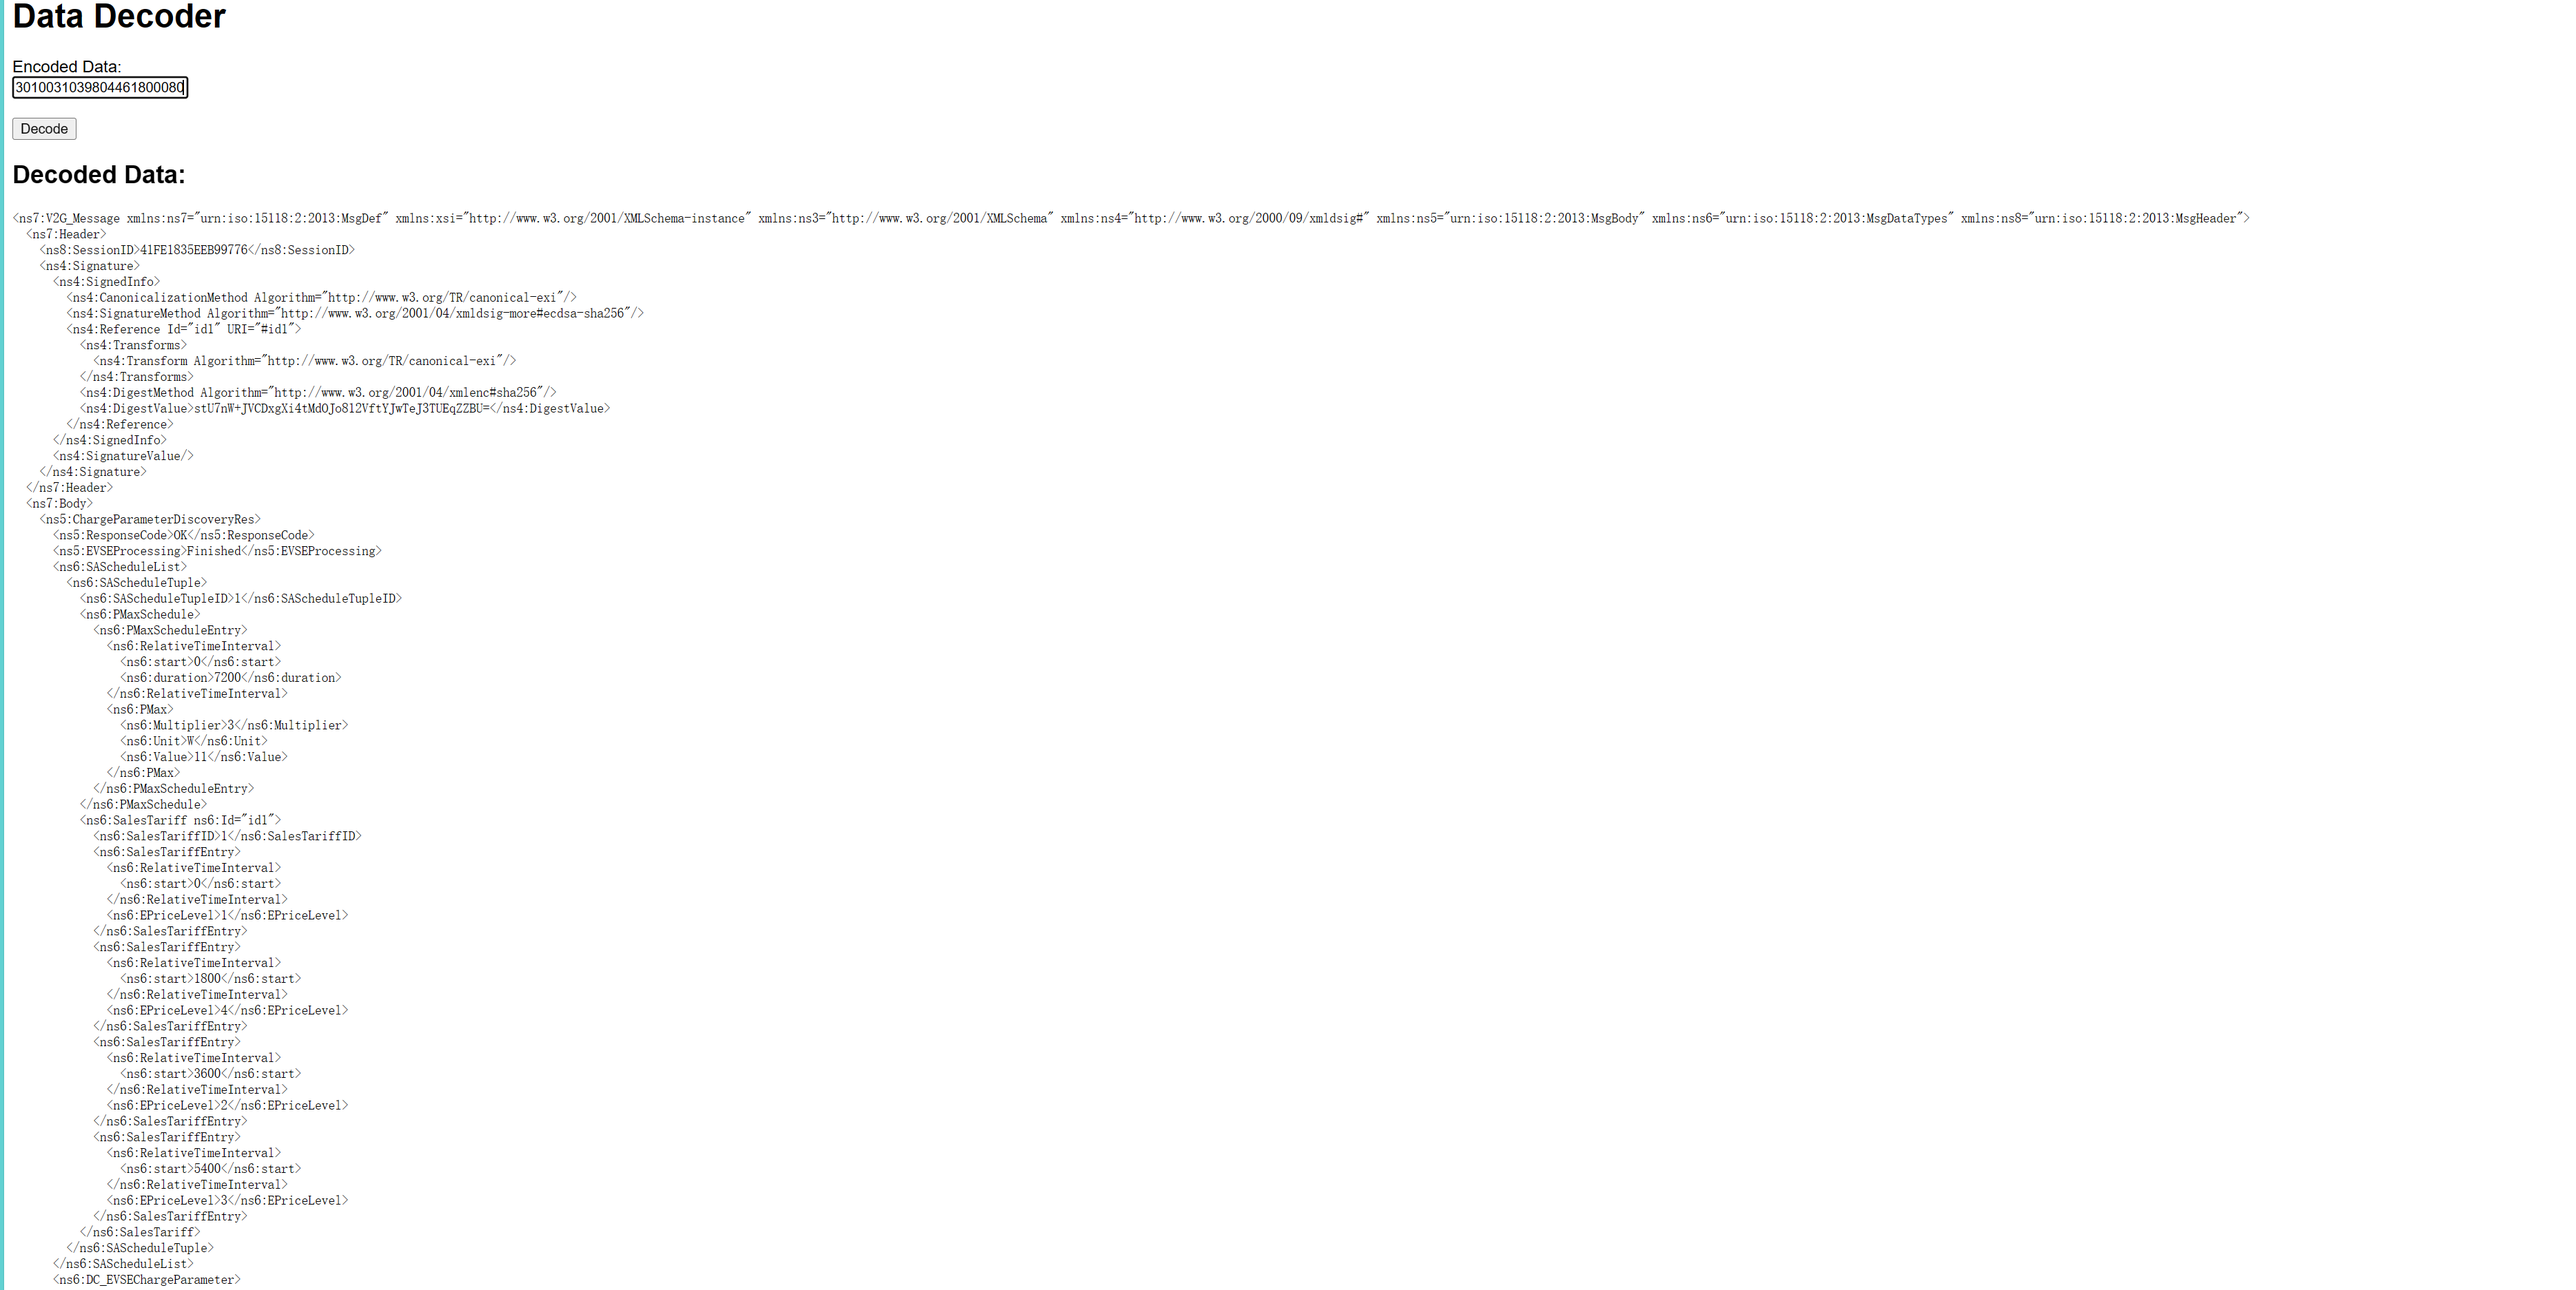
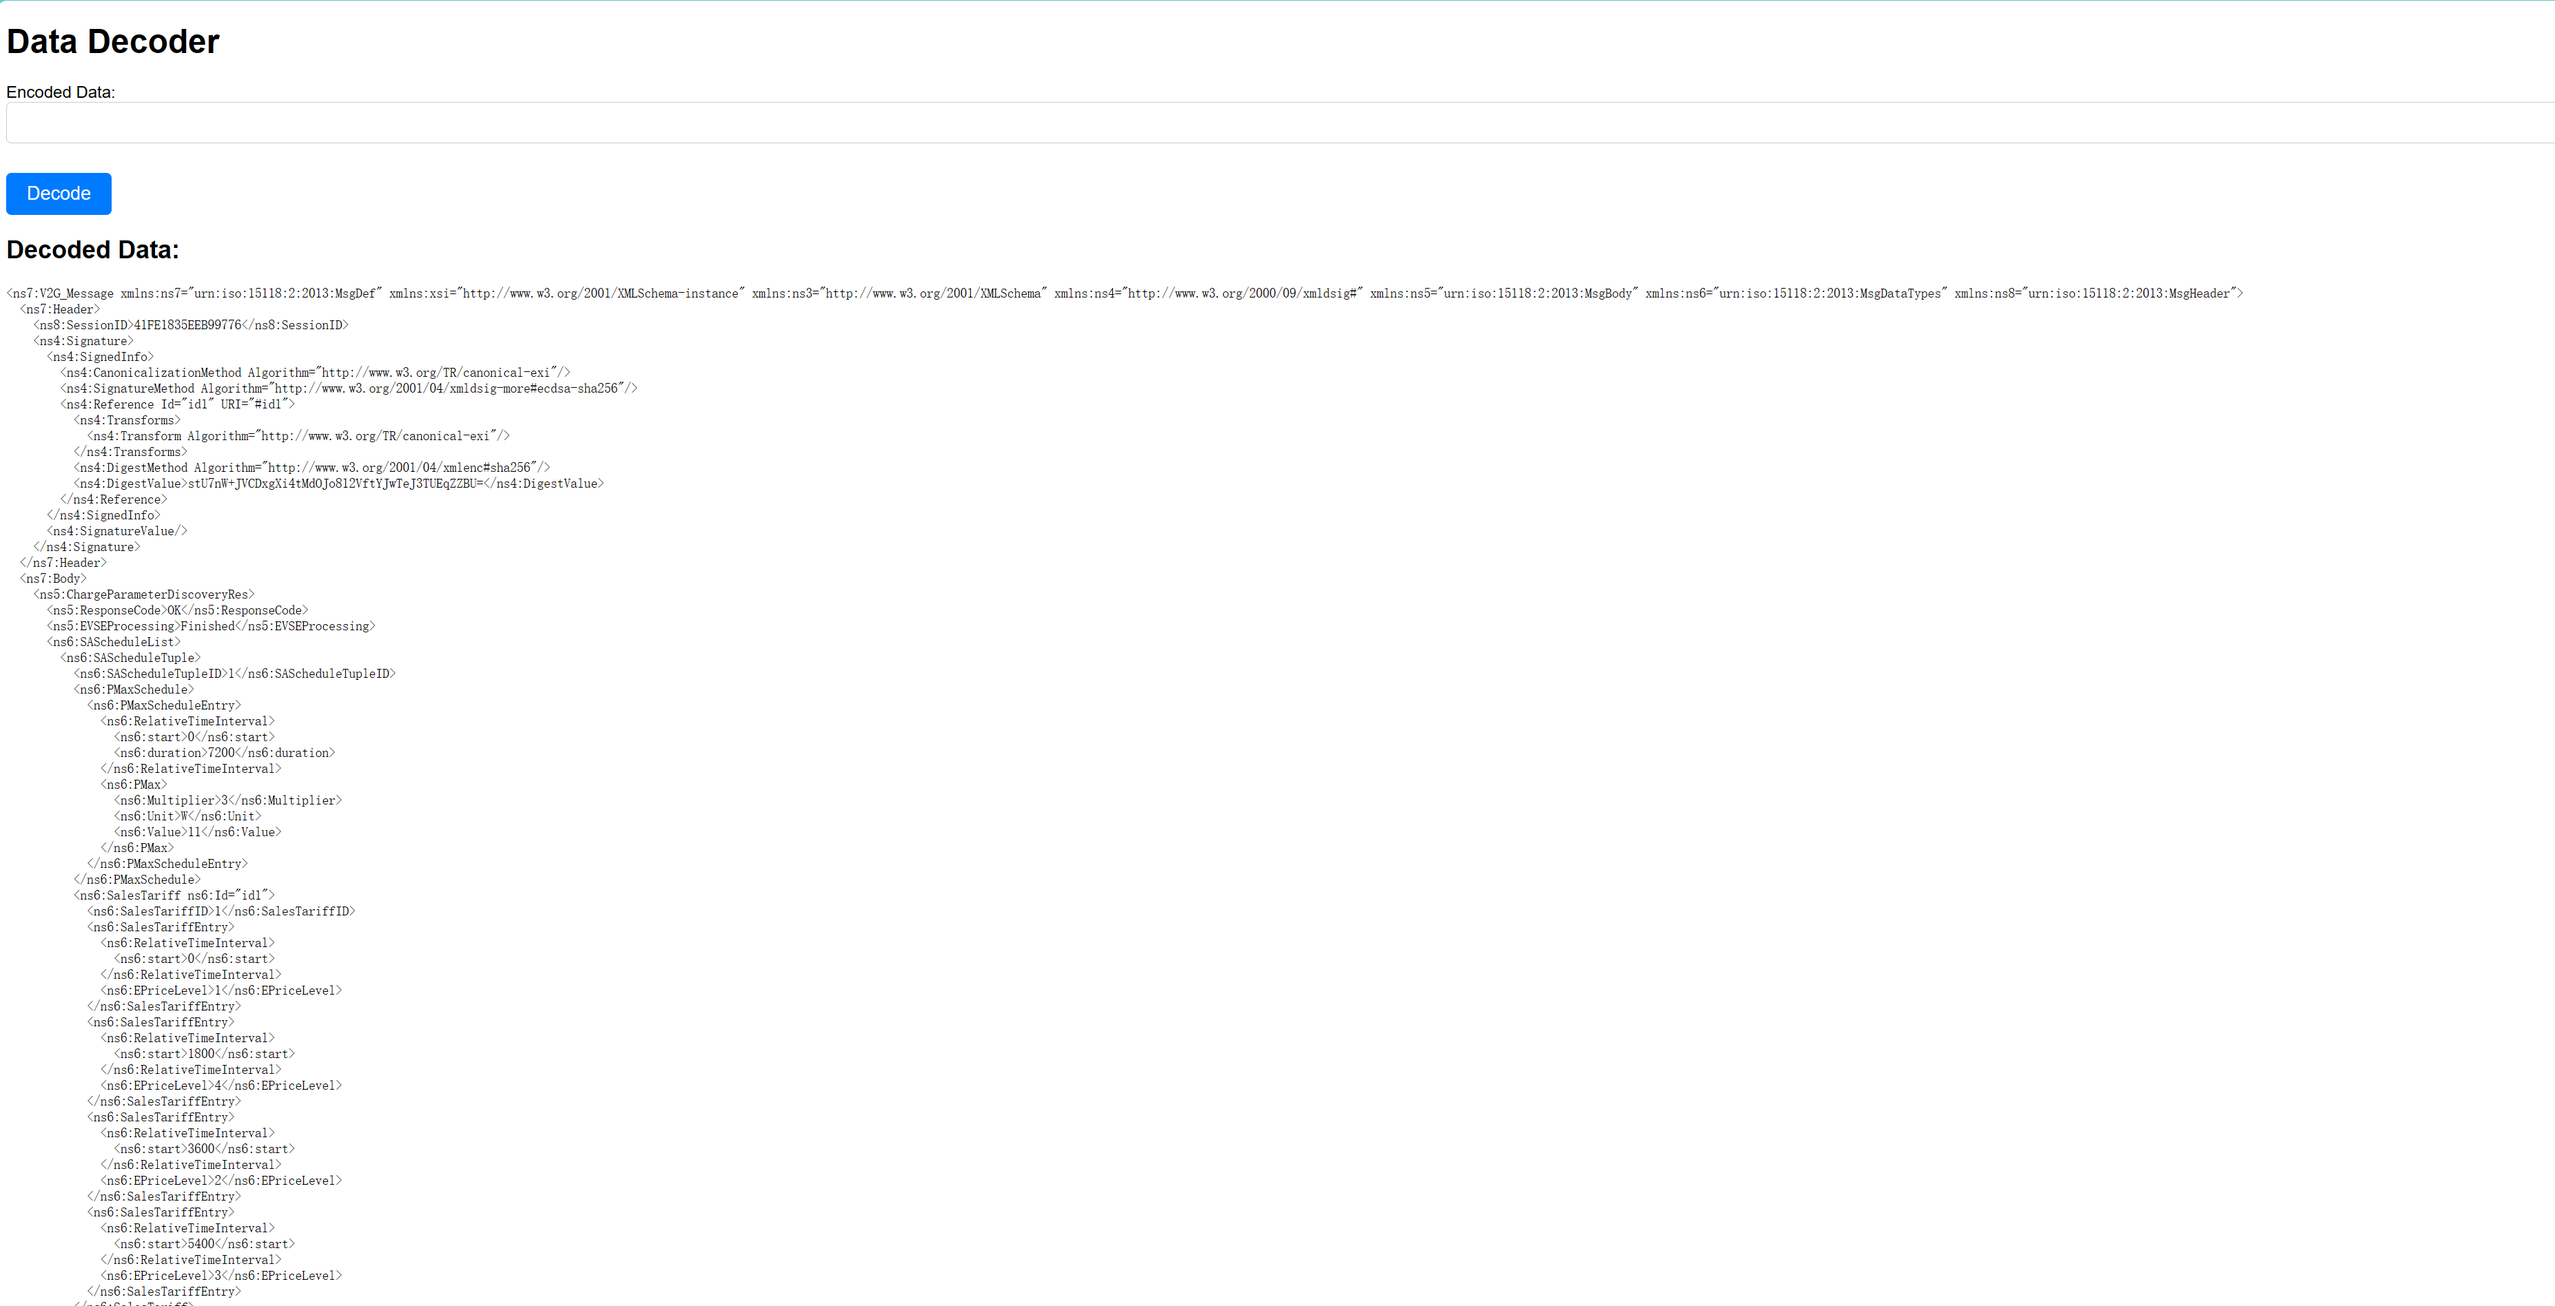
优化html

diff --git a/templates/index.html b/templates/index.html
@@ -10,8 +10,33 @@
 
         .error {
             color: red;
+            font-size: 18px;
+            margin-top: 10px;
         }
 
+        input[type="text"] {
+            width: 100%;
+            padding: 10px;
+            border: 1px solid #ccc;
+            border-radius: 5px;
+            margin-bottom: 10px;
+            font-size: 16px;
+        }
+
+        input[type="submit"] {
+            background-color: #007BFF;
+            color: white;
+            padding: 10px 20px;
+            border: none;
+            border-radius: 5px;
+            font-size: 18px;
+            cursor: pointer;
+        }
+
+        input[type="submit"]:hover {
+            background-color: #0056b3;
+        }
+        
         pre {
             white-space: pre-wrap;
             word-wrap: break-word;
